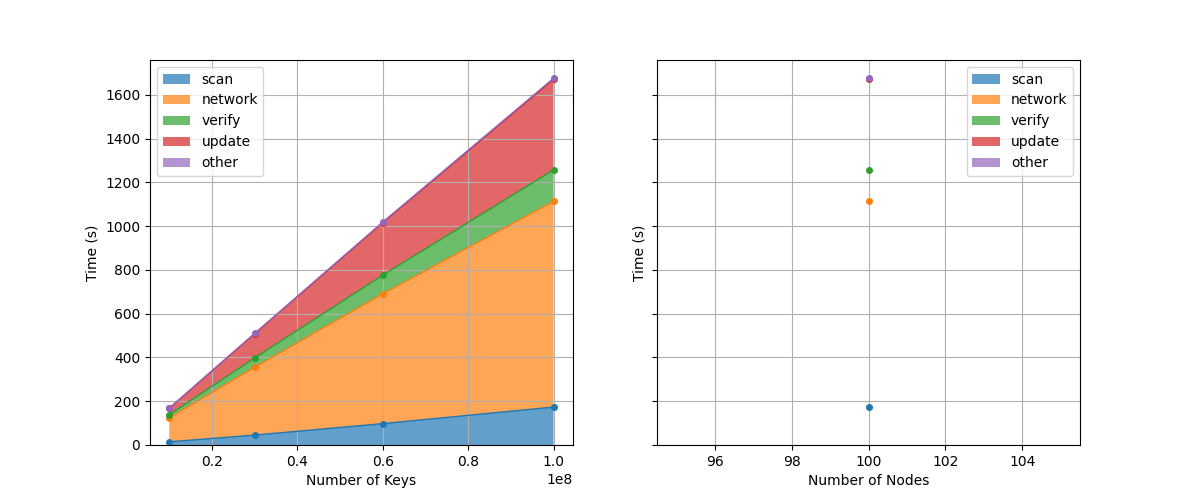
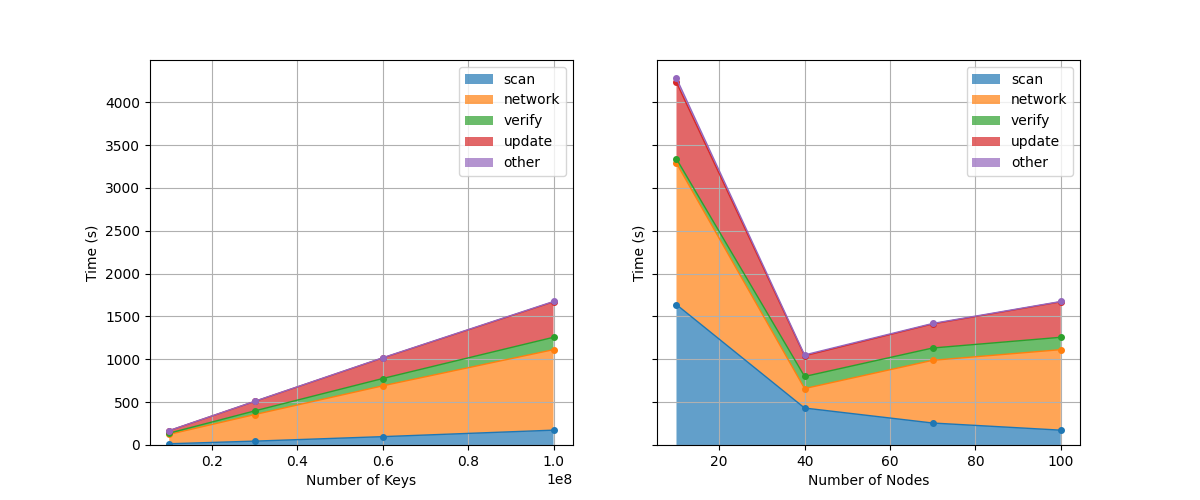
fix(storage): checkpoint memory leak

Changed region(s): [[0.0925, 0.12, 0.4933, 0.9], [0.555, 0.15, 0.8942, 0.93], [0.0925, 0.6, 0.1233, 0.66]]

diff --git a/control/src/bin/checkpoint.rs b/control/src/bin/checkpoint.rs
@@ -2,7 +2,7 @@ use std::time::Duration;
 
 use big_control::{
     Cluster, Instance,
-    configs::{APP, CACHE_SIZE, NETWORK, NUM_KEYS, SHARDING, STORAGE, STRIPE_INTERVAL},
+    configs::{APP, CACHE_SIZE, NETWORK, NUM_KEYS, SHARDING, STORAGE, STRIPE_INTERVAL, Sharding},
     load_all, run_endpoints, start_all, wait_all,
 };
 use big_schema::{Stopped, StoppedReplicaBig, Task};
@@ -19,10 +19,18 @@ async fn main() -> anyhow::Result<()> {
 
     let cluster = Cluster::from_terraform().await?;
 
-    let num_running_nodes = SHARDING.num_running_nodes();
+    // let sharding = SHARDING;
+    // for f in [23, 13, 3] {
+    let f = 3;
+    let sharding = Sharding {
+        num_shards: 1,
+        num_shard_faulty_nodes: f,
+    };
+
+    let num_running_nodes = sharding.num_running_nodes();
     let servers = &cluster.servers[..num_running_nodes as usize];
     let endpoints = run_endpoints(servers.to_vec());
-    let workload = run_workload(servers.to_vec());
+    let workload = run_workload(servers.to_vec(), sharding);
     let workload = async {
         let result = workload.await;
         if result.is_err() {
@@ -38,7 +46,7 @@ async fn main() -> anyhow::Result<()> {
     for stopped in stopped_big_list {
         println!(
             "{},{},{},{},{},{},{}",
-            SHARDING.num_nodes(),
+            sharding.num_nodes(),
             NUM_KEYS,
             stopped.checkpoint,
             stopped.checkpoint_scan,
@@ -47,10 +55,14 @@ async fn main() -> anyhow::Result<()> {
             stopped.checkpoint_update,
         );
     }
+    // }
     Ok(())
 }
 
-async fn run_workload(server_instances: Vec<Instance>) -> anyhow::Result<Vec<StoppedReplicaBig>> {
+async fn run_workload(
+    server_instances: Vec<Instance>,
+    sharding: Sharding,
+) -> anyhow::Result<Vec<StoppedReplicaBig>> {
     let control_client = Client::new();
     sleep(Duration::from_millis(2000)).await;
 
@@ -65,13 +77,13 @@ async fn run_workload(server_instances: Vec<Instance>) -> anyhow::Result<Vec<Sto
             num_shards: 1,
             shard_index: 0,
             shard_node_index: i as _,
-            num_shard_faulty_nodes: SHARDING.num_shard_faulty_nodes,
+            num_shard_faulty_nodes: sharding.num_shard_faulty_nodes,
             ips: ips.clone(),
             latencies: NETWORK.to_latencies(),
             config: big_schema::ReplicaConfig {
                 node_index: i as _,
-                num_nodes: SHARDING.num_nodes(),
-                num_faulty_nodes: SHARDING.num_faulty_nodes(),
+                num_nodes: sharding.num_nodes(),
+                num_faulty_nodes: sharding.num_faulty_nodes(),
             },
             cache_size: CACHE_SIZE,
             max_concurrent_executing: NETWORK.max_concurrent_executing(),

diff --git a/src/archive.rs b/src/archive.rs
@@ -260,6 +260,7 @@ impl ArchiveTask {
                                     );
                                     if push_shard.round != self.current_round
                                         || push_shard.shard < shard
+                                        || shards.contains_key(&push_shard.shard)
                                     {
                                         continue;
                                     }
